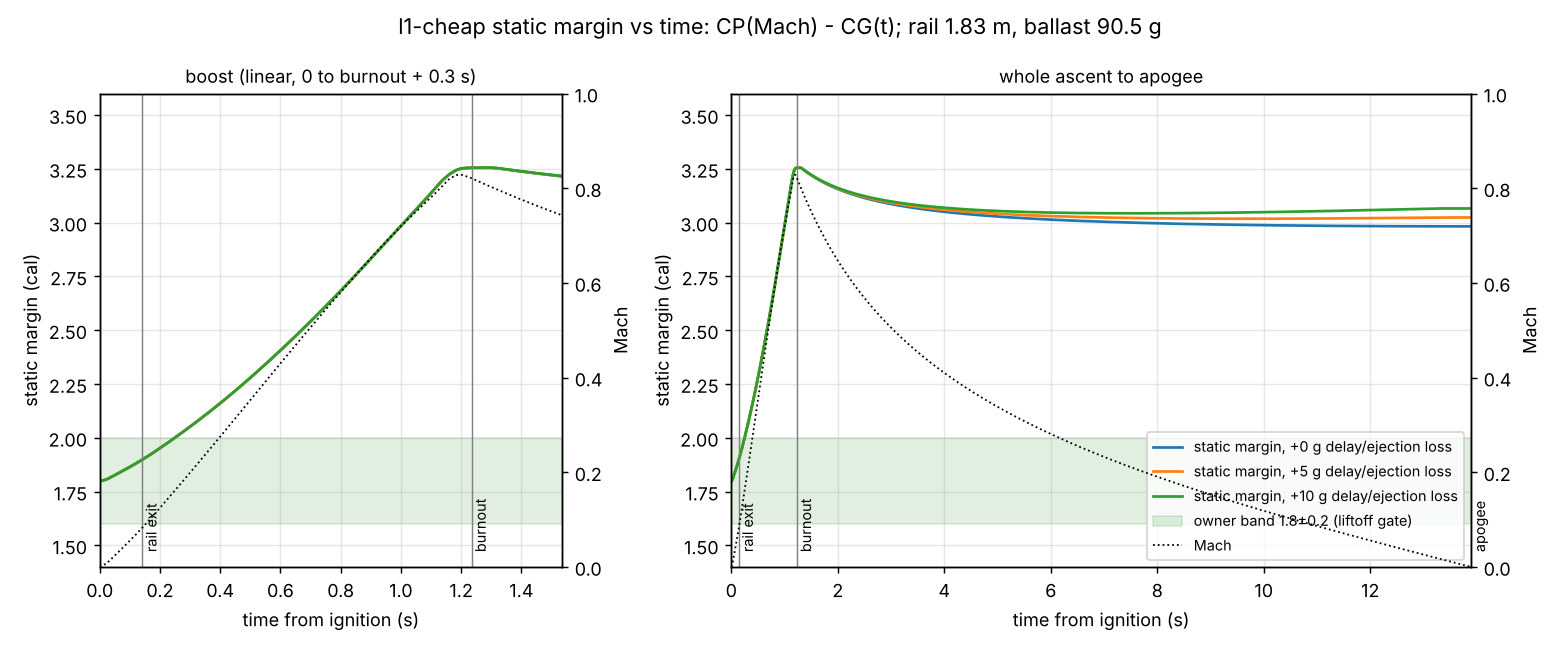
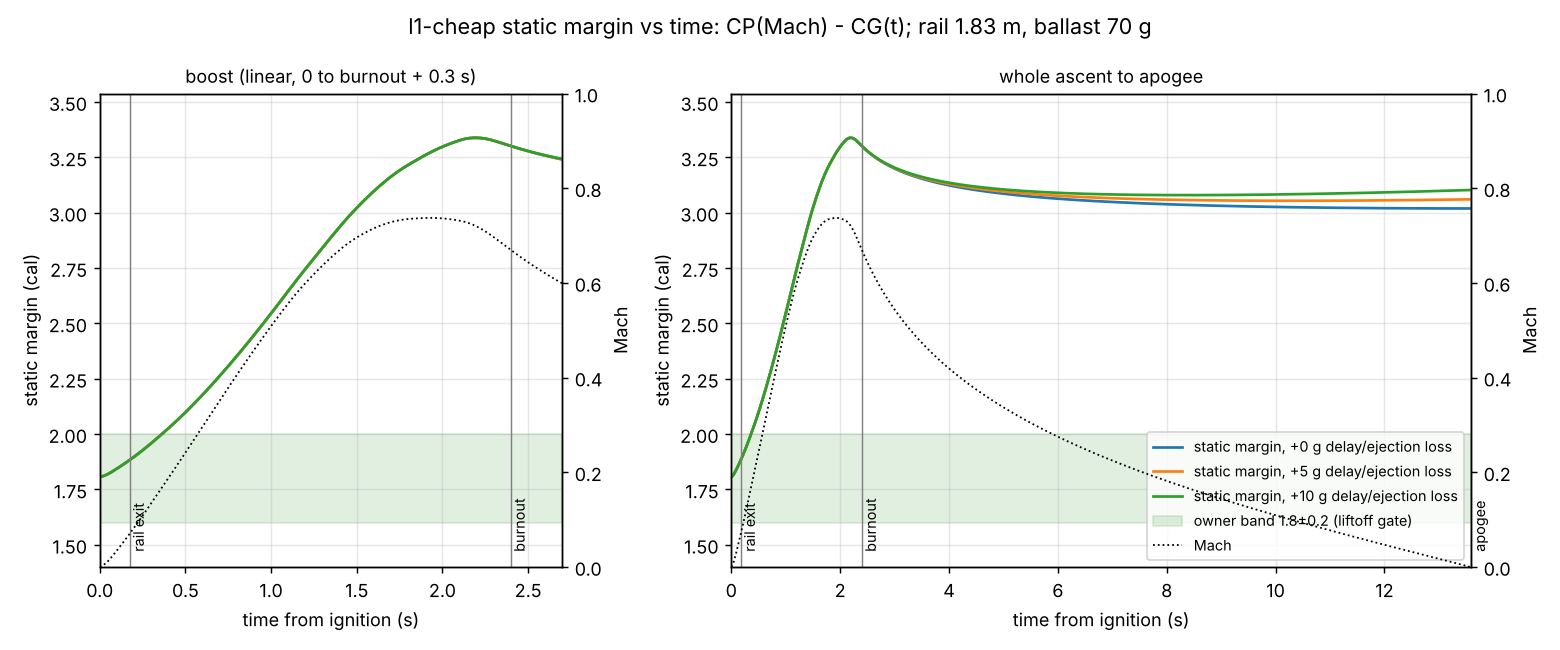
Record OR component analysis and fin CNa comparison
Claude-Session: https://claude.ai/code/session_01JbHocCdFPmDsRrA6bRt32a

diff --git a/projects/l1-cheap/or_component_analysis.md b/projects/l1-cheap/or_component_analysis.md
@@ -1,0 +1,27 @@
+# OpenRocket component analysis vs our model (owner screenshot, 2026-11-21)
+
+OR config H100W_DMS-6, Mach 0.300, AoA 0, ref length 1.625 in (41.275 mm), ref area 2.07 in².
+
+| Component | Mass (lb / g) | CG (in) | CP (in) | CNα |
+|---|---|---|---|---|
+| Total | 1.404 / 637 | 29.442 | **32.914** | **11.364** |
+| Nose cone | 0.176 / 80 | 4.842 | 3.018 | 2 |
+| Body tube | 0.272 / 123 | 23.5 | — | 0 |
+| Trapezoidal fin set (3) | 0.265 / 120 (override) | 39.696 | 39.299 | **9.364** |
+| Inner tube | 0.014 / 6 | 37.45 | — | 0 |
+| H100W_DMS | 0.575 / 261 | 37.55 | — | 0 |
+| Parachute | 0.084 / 38 | 13.992 | — | 0 |
+| Bulkhead | 0.005 / 2 | 19.461 | — | 0 |
+| Shock cord | 0.012 / 5 | 14.992 | — | 0 |
+
+## Fin normal-force slope, same fins (50 / 30 / 43.18 / sweep 20.32 mm, 3 fins, no sleeve)
+| Method | CNα (fins) |
+|---|---|
+| Barrowman (RocketPy / our sim) | 6.97 |
+| Lifting-surface single-fin slope × N/2 × body interference, N = 3 | 7.08 |
+| Same, **N = 4** | **9.43** |
+| OpenRocket | **9.364** |
+
+OR's fin CNα is ~34 % above two independent 3-fin methods and within 1 % of the 4-fin value.
+Nose agrees exactly (CNα 2, CP 3.018 in = k·L with k ≈ 0.464).
+Masses: the OR body tube is 123 g (our ESTIMATE 94 g; weigh it). Nose 80 g and fins 120 g are owner overrides.
